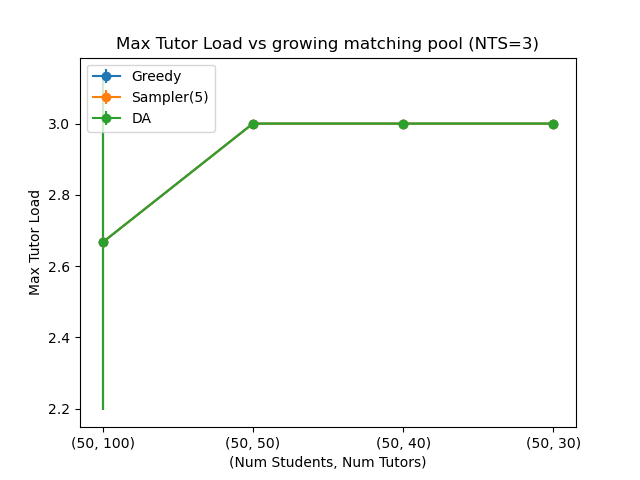
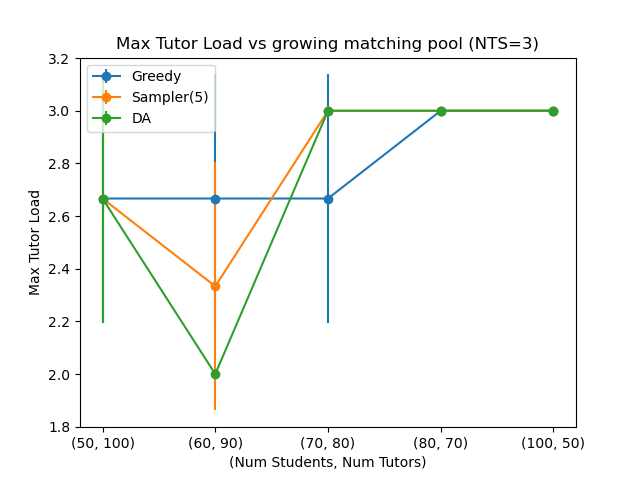
Reran STR experiments with a fixed matching pool size

diff --git a/experiments.py b/experiments.py
@@ -333,8 +333,8 @@ def run_matching_pool_exp():
 
 
 def run_ratios_exp():
-    ns_list = [50, 50, 50, 50]
-    nt_list = [100, 50, 40, 30]
+    ns_list = [50, 60, 70, 80, 100]
+    nt_list = [100, 90, 80, 70, 50]
     seeds = [1, 2, 3]
     nts_list = [3, 5]
     dim = 100
